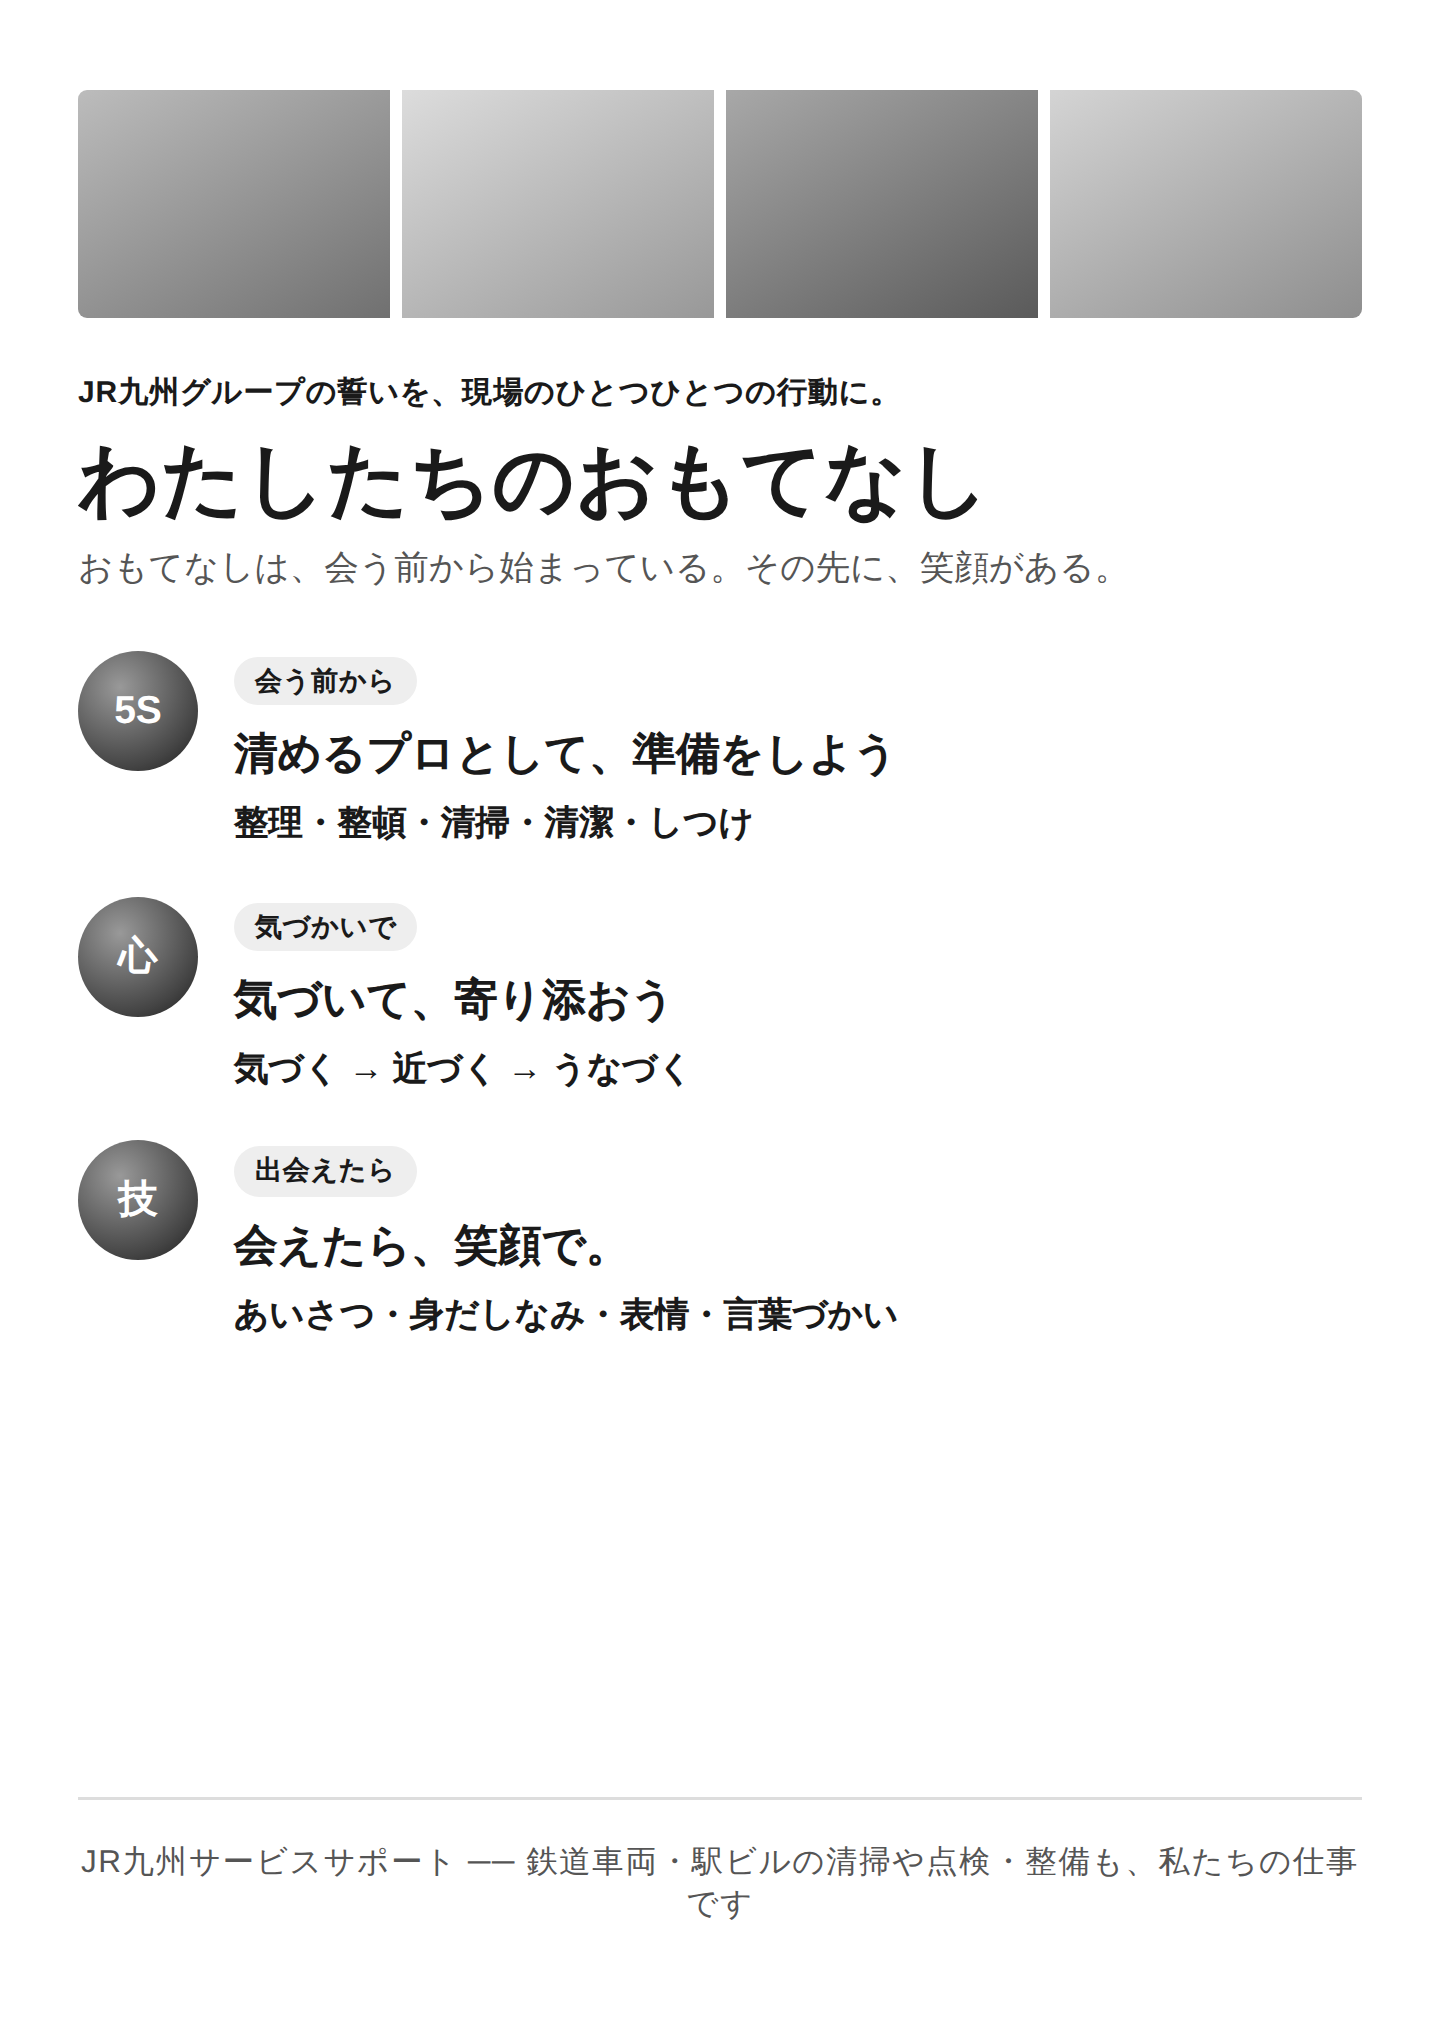
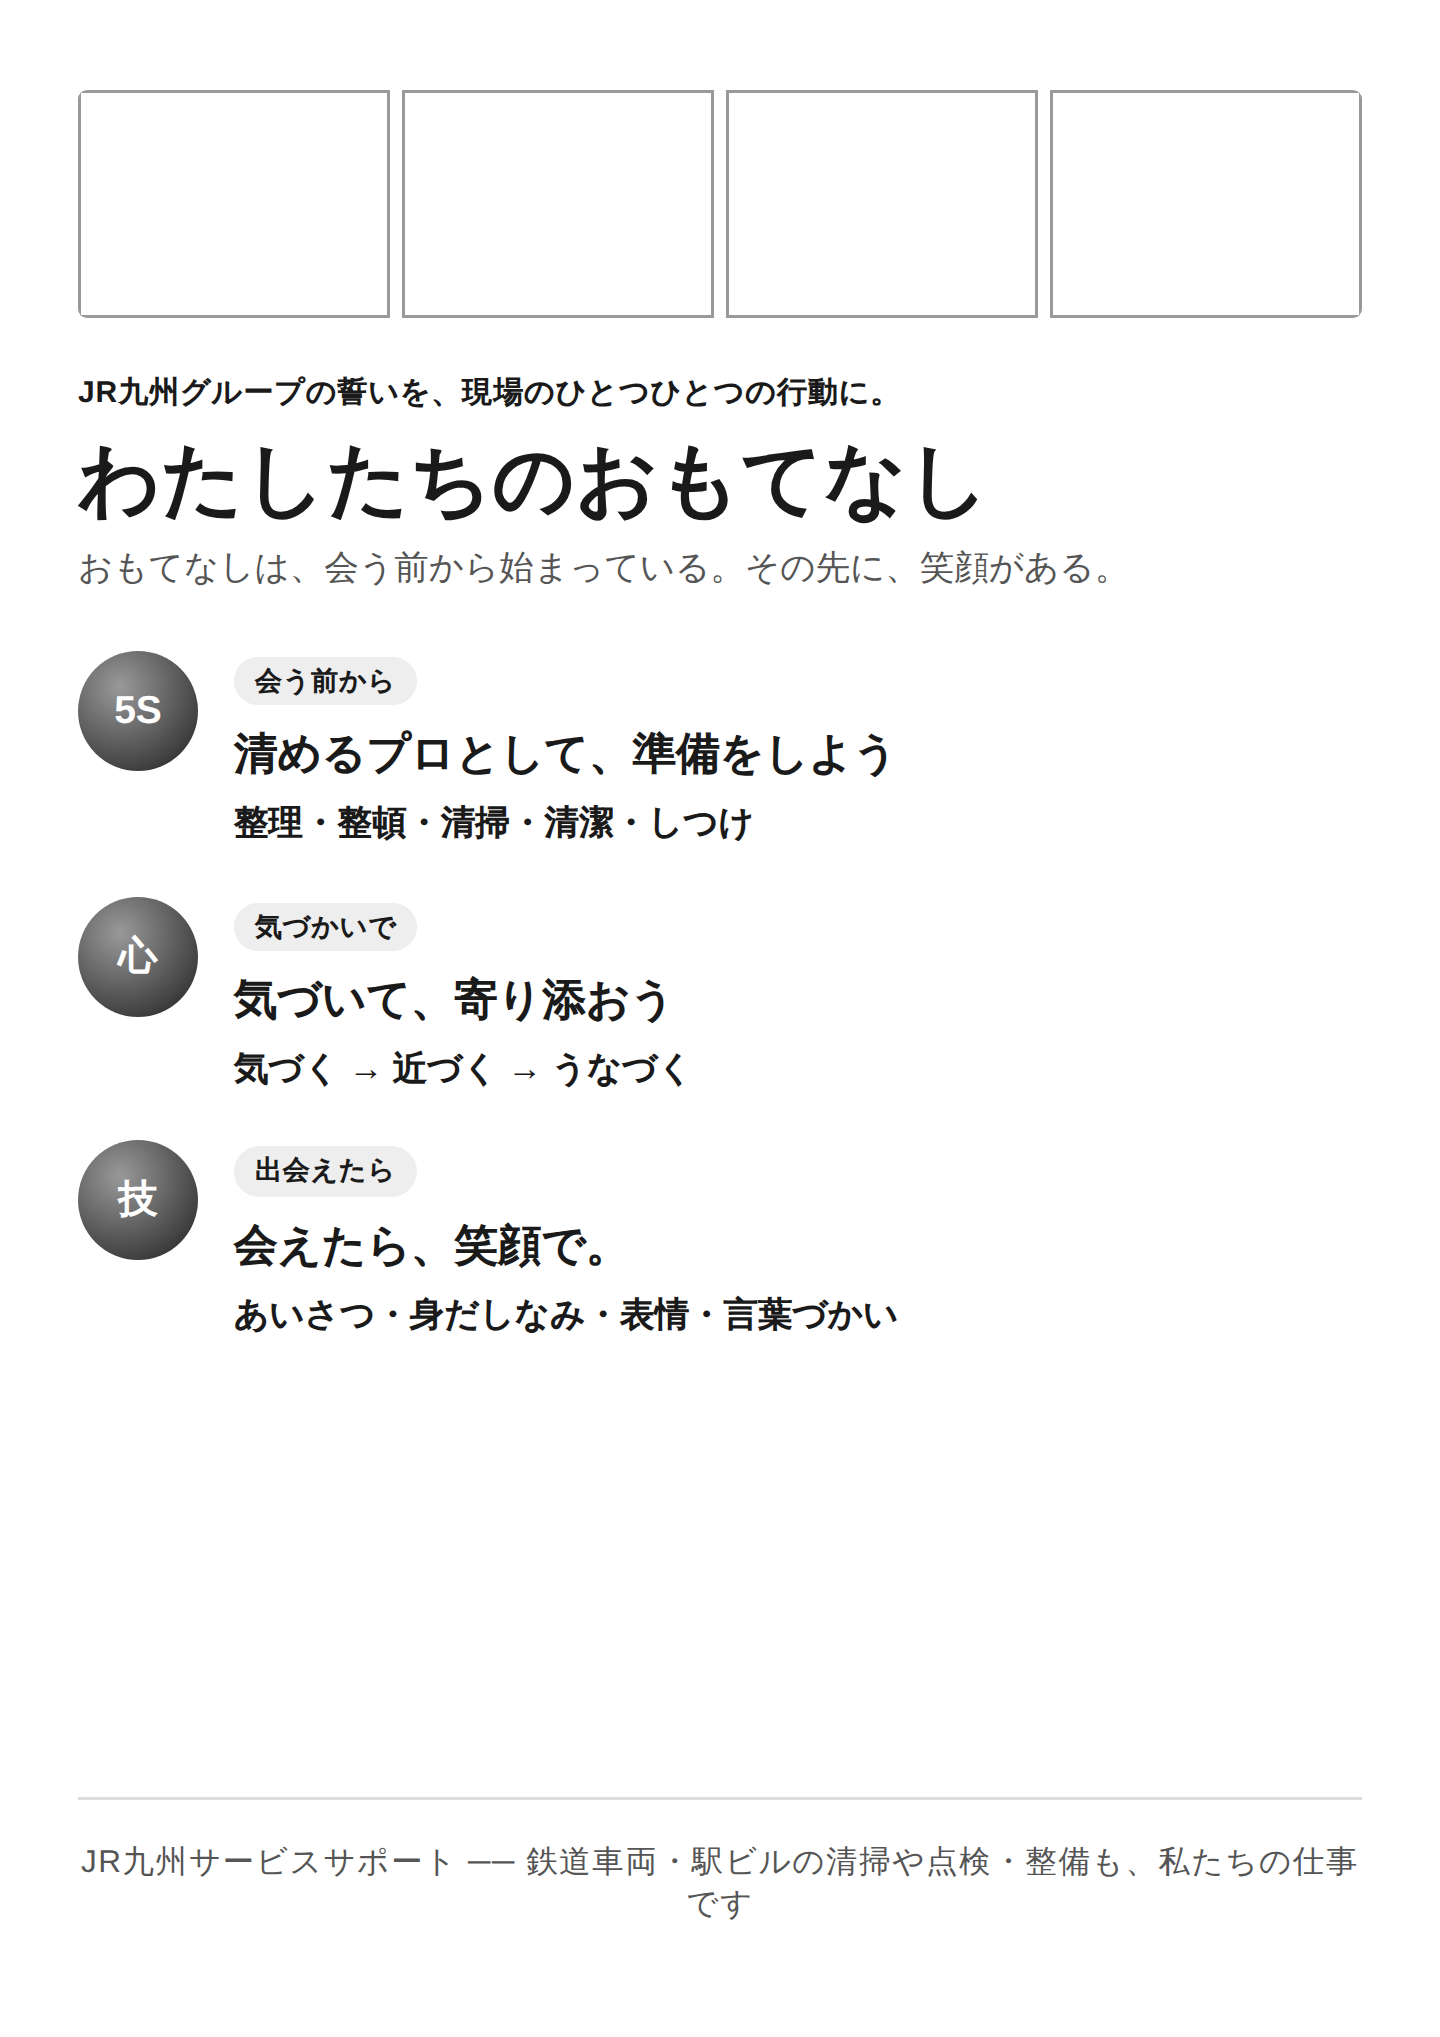
写真エリアを塗りつぶしから線のみに変更
写真モザイク・写真帯のタイルを、グレー塗りつぶしから白背景+
枠線のみのプレースホルダーに変更。実際の写真がはめ込まれる
枠であることがより分かりやすくなった。

Claude-Session: https://claude.ai/code/session_01PrDowKdWJuuMUJX1qgTgZp

Changed region(s): [[0.0312, 0.0309, 0.9688, 0.1546]]

diff --git a/omotenashi_posters_mono.html b/omotenashi_posters_mono.html
@@ -65,21 +65,13 @@
   .mosaic .tile {
     position: relative;
     overflow: hidden;
+    border: 1px solid #999999;
+    background: #ffffff;
   }
 
-  .mosaic .tile::after {
-    content: "";
-    position: absolute; inset: 0;
-    background: rgba(0,0,0,0.08);
+  .tile.g1, .tile.g2, .tile.g3, .tile.g4, .tile.g5, .tile.g6, .tile.g7 {
+    background: #ffffff;
   }
-
-  .tile.g1 { background: linear-gradient(150deg, #d0d0d0, #8a8a8a); }
-  .tile.g2 { background: linear-gradient(150deg, #bcbcbc, #707070); }
-  .tile.g3 { background: linear-gradient(150deg, #e0e0e0, #a0a0a0); }
-  .tile.g4 { background: linear-gradient(150deg, #a8a8a8, #5a5a5a); }
-  .tile.g5 { background: linear-gradient(150deg, #dcdcdc, #989898); }
-  .tile.g6 { background: linear-gradient(150deg, #c0c0c0, #747474); }
-  .tile.g7 { background: linear-gradient(150deg, #d4d4d4, #8e8e8e); }
 
   .mosaic .tile svg { position: absolute; inset: 0; width: 100%; height: 100%; opacity: 0.85; }
 
@@ -128,7 +120,10 @@
     display: grid; grid-template-columns: repeat(4, 1fr); gap: 4px;
     height: 76px; margin-bottom: 18px; border-radius: 3px; overflow: hidden;
   }
-  .photo-strip .tile::after { content: ""; }
+  .photo-strip .tile {
+    border: 1px solid #999999;
+    background: #ffffff;
+  }
 
   .posterB .eyebrow {
     font-size: 10px; color: var(--accent-deep); font-weight: 700;

diff --git a/omotenashi_posters_mono_standalone.html b/omotenashi_posters_mono_standalone.html
@@ -70,21 +70,13 @@
   .mosaic .tile {
     position: relative;
     overflow: hidden;
+    border: 1px solid #999999;
+    background: #ffffff;
   }
 
-  .mosaic .tile::after {
-    content: "";
-    position: absolute; inset: 0;
-    background: rgba(0,0,0,0.08);
+  .tile.g1, .tile.g2, .tile.g3, .tile.g4, .tile.g5, .tile.g6, .tile.g7 {
+    background: #ffffff;
   }
-
-  .tile.g1 { background: linear-gradient(150deg, #d0d0d0, #8a8a8a); }
-  .tile.g2 { background: linear-gradient(150deg, #bcbcbc, #707070); }
-  .tile.g3 { background: linear-gradient(150deg, #e0e0e0, #a0a0a0); }
-  .tile.g4 { background: linear-gradient(150deg, #a8a8a8, #5a5a5a); }
-  .tile.g5 { background: linear-gradient(150deg, #dcdcdc, #989898); }
-  .tile.g6 { background: linear-gradient(150deg, #c0c0c0, #747474); }
-  .tile.g7 { background: linear-gradient(150deg, #d4d4d4, #8e8e8e); }
 
   .mosaic .tile svg { position: absolute; inset: 0; width: 100%; height: 100%; opacity: 0.85; }
 
@@ -133,7 +125,10 @@
     display: grid; grid-template-columns: repeat(4, 1fr); gap: 4px;
     height: 76px; margin-bottom: 18px; border-radius: 3px; overflow: hidden;
   }
-  .photo-strip .tile::after { content: ""; }
+  .photo-strip .tile {
+    border: 1px solid #999999;
+    background: #ffffff;
+  }
 
   .posterB .eyebrow {
     font-size: 10px; color: var(--accent-deep); font-weight: 700;
